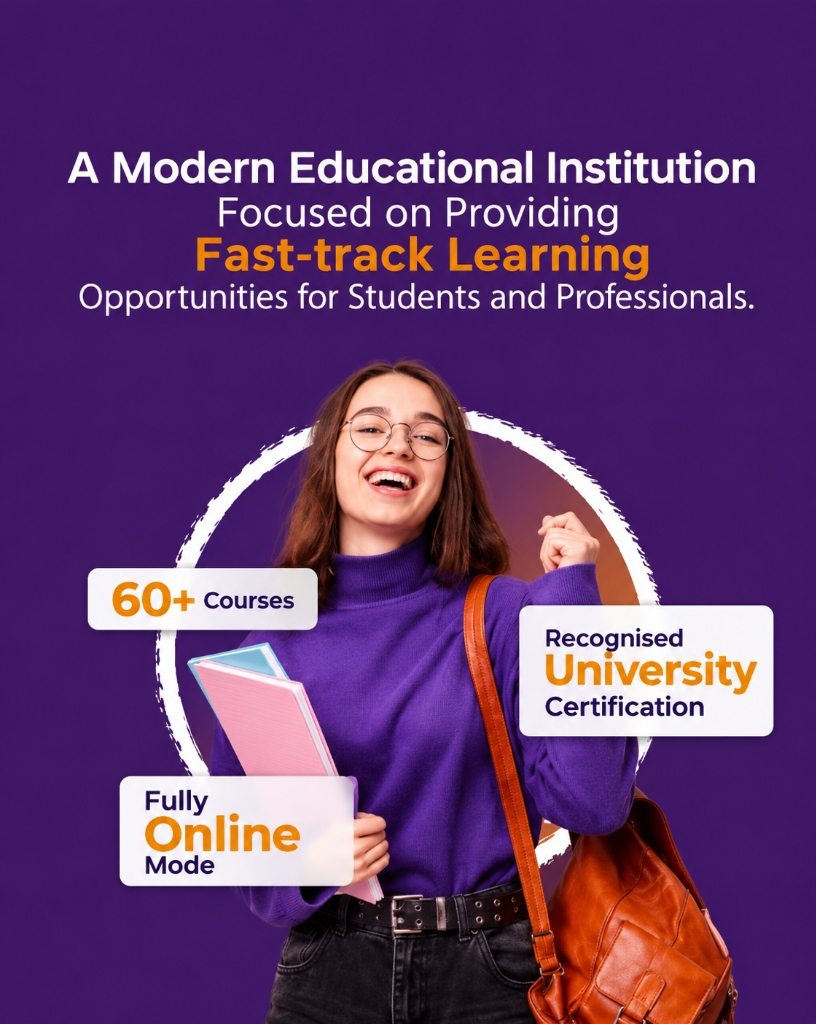
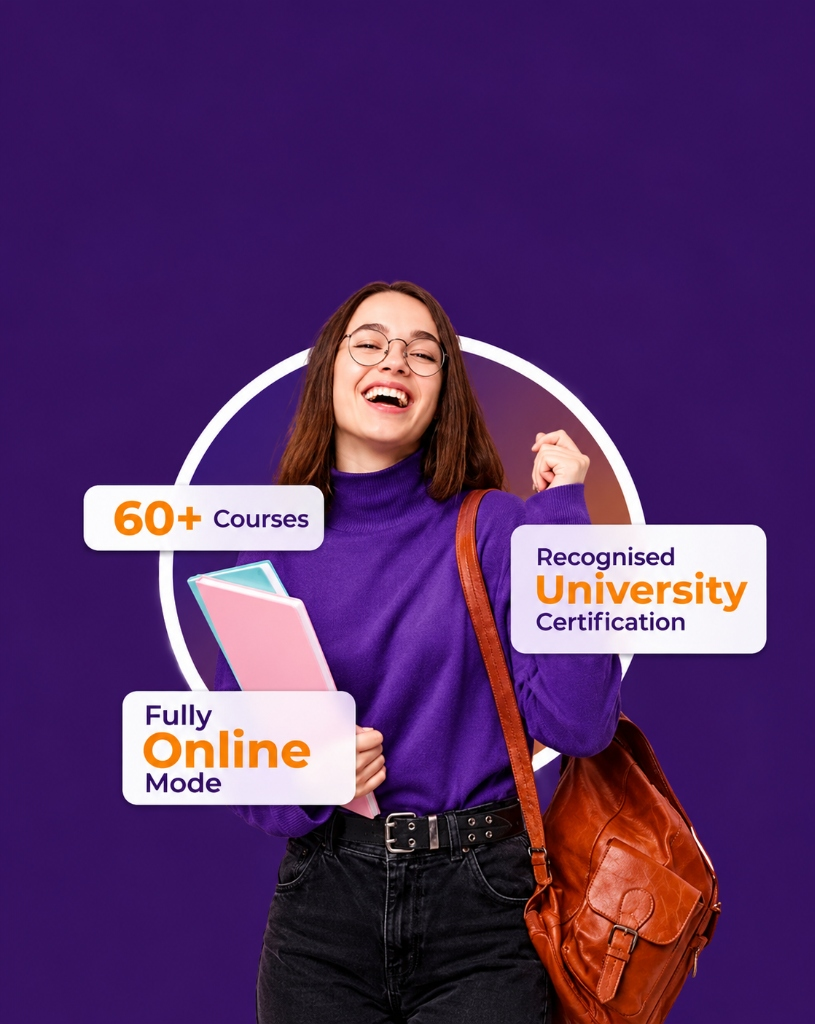
fix: replace Fast-Track Certifications image and strengthen bottom text legibility scrim

diff --git a/src/components/ProgramsSection.jsx b/src/components/ProgramsSection.jsx
@@ -256,7 +256,7 @@ export default function ProgramsSection({ onOpenProgramModal }) {
                           {/* Bottom-only Gradient Scrim so upper photo stays crystal clear */}
                           <div
                             aria-hidden="true"
-                            className="absolute inset-x-0 bottom-0 h-[46%] bg-gradient-to-t from-slate-950/95 via-slate-950/75 to-transparent"
+                            className="absolute inset-x-0 bottom-0 h-[46%] bg-gradient-to-t from-slate-950 via-slate-950/85 to-transparent"
                           />
 
                           {/* Bottom Title & Description anchored tight to bottom */}
